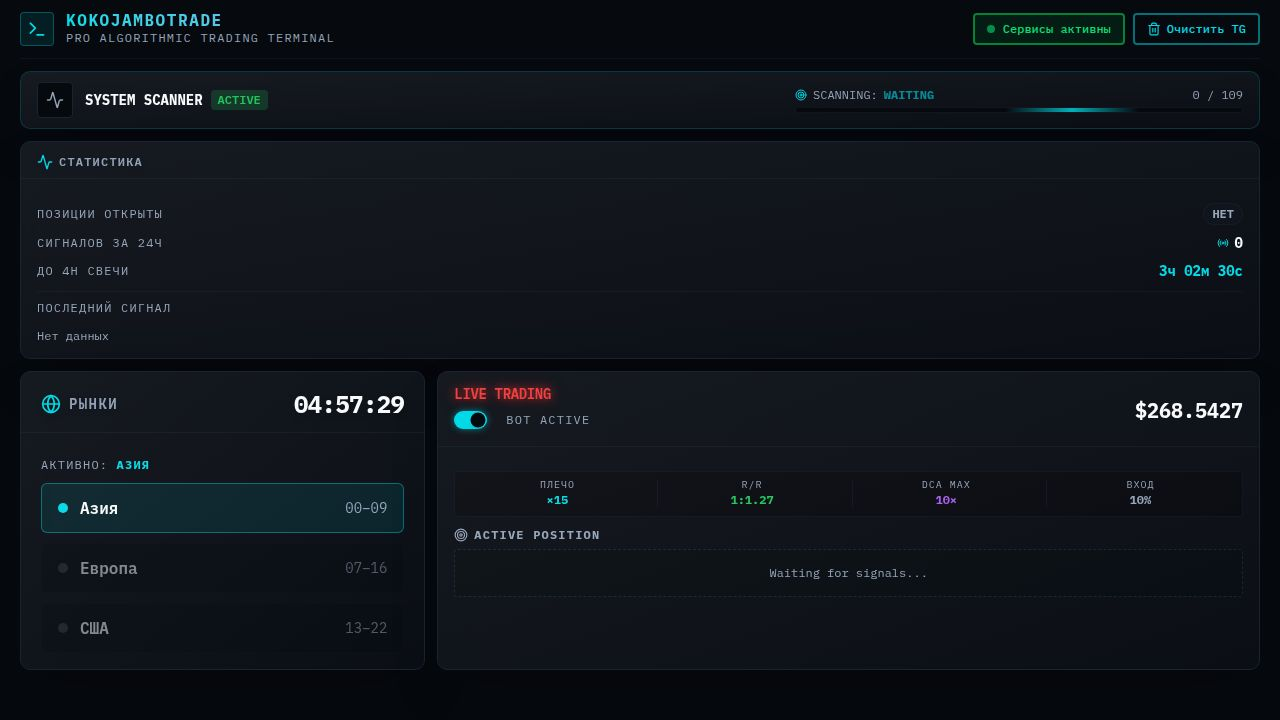
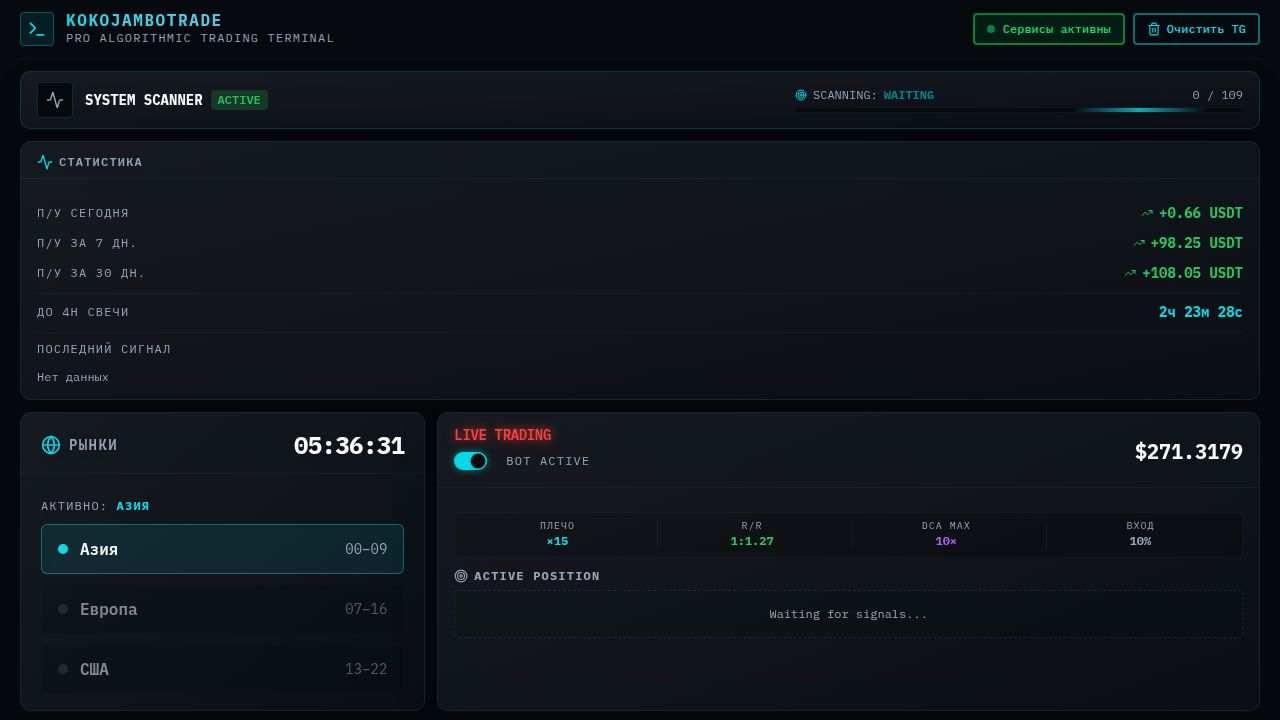
Add profit and loss analysis to the dashboard statistics
Implement a new API endpoint to fetch P/L data from BingX and update the dashboard statistics panel to display daily, weekly, and monthly P/L, while removing open position and signal count information.

Replit-Commit-Author: Agent
Replit-Commit-Session-Id: 5435439c-9c3d-44bc-b6f1-0574cbe3ae95
Replit-Commit-Checkpoint-Type: full_checkpoint
Replit-Commit-Event-Id: de305b79-208a-4731-9b19-1c8bcec75643
Replit-Commit-Screenshot-Url: https://storage.googleapis.com/screenshot-production-us-central1/e379409e-9a2b-4813-93f6-23a20e8a01ea/5435439c-9c3d-44bc-b6f1-0574cbe3ae95/LtQ1l3e
Replit-Helium-Checkpoint-Created: true

diff --git a/artifacts/dashboard/src/components/StatisticsPanel.tsx b/artifacts/dashboard/src/components/StatisticsPanel.tsx
@@ -1,8 +1,14 @@
 import { useQuery } from "@tanstack/react-query";
 import { useState, useEffect } from "react";
-import { Activity, Radio } from "lucide-react";
+import { Activity, TrendingUp, TrendingDown } from "lucide-react";
 import { Card, CardContent, CardHeader, CardTitle } from "@/components/ui/card";
 import { cn } from "@/lib/utils";
+
+interface PnlAnalysis {
+  today: number | null;
+  week: number | null;
+  month: number | null;
+}
 
 interface SignalStats {
   todayCount: number;
@@ -13,6 +19,17 @@ interface SignalStats {
     price: number;
     createdAt: string;
   } | null;
+}
+
+function usePnlAnalysis() {
+  return useQuery({
+    queryKey: ["/api/live-trading/pnl-analysis"],
+    queryFn: async () => {
+      const res = await fetch("/api/live-trading/pnl-analysis");
+      return res.json() as Promise<PnlAnalysis>;
+    },
+    refetchInterval: 60000,
+  });
 }
 
 function useSignalStats() {
@@ -44,7 +61,7 @@ function useNextCandleCountdown(periodHours = 4) {
           ? `${h}ч ${String(m).padStart(2, "0")}м ${String(s).padStart(2, "0")}с`
           : `${String(m).padStart(2, "0")}м ${String(s).padStart(2, "0")}с`
       );
-      setUrgent(diff < 5 * 60_000); // последние 5 минут — жёлтый
+      setUrgent(diff < 5 * 60_000);
     }
     tick();
     const id = setInterval(tick, 1000);
@@ -62,16 +79,39 @@ function timeAgo(dateStr: string): string {
   return `${Math.floor(diff / 86400)}д`;
 }
 
-interface StatisticsPanelProps {
-  openPosition: { direction?: string } | null;
+function PnlRow({ label, value }: { label: string; value: number | null }) {
+  const isLoading = value === null;
+  const isPos = (value ?? 0) >= 0;
+  const formatted = isLoading
+    ? "—"
+    : `${isPos ? "+" : ""}${value!.toFixed(2)} USDT`;
+
+  return (
+    <div className="flex items-center justify-between">
+      <span className="text-xs text-muted-foreground uppercase tracking-widest">{label}</span>
+      <div className="flex items-center gap-1.5">
+        {!isLoading && (
+          isPos
+            ? <TrendingUp className="w-3 h-3 text-success shrink-0" />
+            : <TrendingDown className="w-3 h-3 text-danger shrink-0" />
+        )}
+        <span className={cn(
+          "font-mono text-sm font-bold tabular-nums",
+          isLoading ? "text-muted-foreground" : isPos ? "text-success" : "text-danger"
+        )}>
+          {formatted}
+        </span>
+      </div>
+    </div>
+  );
 }
 
-export function StatisticsPanel({ openPosition }: StatisticsPanelProps) {
-  const { data } = useSignalStats();
+export function StatisticsPanel() {
+  const { data: pnl } = usePnlAnalysis();
+  const { data: signals } = useSignalStats();
   const { remaining, urgent } = useNextCandleCountdown(4);
 
-  const hasPos = !!openPosition;
-  const lastSig = data?.lastSignal;
+  const lastSig = signals?.lastSignal;
   const tokenName = lastSig?.symbol?.replace("-USDT", "").replace("/USDT:USDT", "") ?? "";
 
   return (
@@ -84,27 +124,11 @@ export function StatisticsPanel({ openPosition }: StatisticsPanelProps) {
       </CardHeader>
       <CardContent className="px-4 pb-3 flex flex-col gap-2.5">
 
-        <div className="flex items-center justify-between">
-          <span className="text-xs text-muted-foreground uppercase tracking-widest">Позиции открыты</span>
-          <span className={cn(
-            "px-2 py-0.5 rounded-full border font-mono text-xs font-bold uppercase",
-            hasPos
-              ? "bg-success/20 text-success border-success/40"
-              : "bg-muted/20 text-muted-foreground border-border/40"
-          )}>
-            {hasPos ? "ДА" : "НЕТ"}
-          </span>
-        </div>
+        <PnlRow label="П/У сегодня"  value={pnl?.today  ?? null} />
+        <PnlRow label="П/У за 7 дн." value={pnl?.week   ?? null} />
+        <PnlRow label="П/У за 30 дн." value={pnl?.month  ?? null} />
 
-        <div className="flex items-center justify-between">
-          <span className="text-xs text-muted-foreground uppercase tracking-widest">Сигналов за 24ч</span>
-          <div className="flex items-center gap-1.5">
-            <Radio className="w-3 h-3 text-primary" />
-            <span className="font-mono text-sm font-bold leading-none">{data?.todayCount ?? "—"}</span>
-          </div>
-        </div>
-
-        <div className="flex items-center justify-between">
+        <div className="border-t border-border/40 pt-2 flex items-center justify-between">
           <span className="text-xs text-muted-foreground uppercase tracking-widest">
             До 4H свечи
           </span>

diff --git a/artifacts/api-server/src/routes/trading.ts b/artifacts/api-server/src/routes/trading.ts
@@ -258,6 +258,43 @@ router.post("/scanner/sleep", async (req, res) => {
   }
 });
 
+router.get("/live-trading/pnl-analysis", async (req, res) => {
+  const apiKey = process.env.BINGX_API_KEY;
+  const secretKey = process.env.BINGX_SECRET_KEY;
+  if (!apiKey || !secretKey) return res.json({ today: null, week: null, month: null });
+
+  try {
+    const now = Date.now();
+    const todayStartMs = new Date(new Date().toISOString().slice(0, 10) + "T00:00:00.000Z").getTime();
+    const weekStartMs  = now - 7  * 24 * 60 * 60 * 1000;
+    const monthStartMs = now - 30 * 24 * 60 * 60 * 1000;
+
+    const raw = await bingxGet(
+      "/openApi/swap/v2/user/income",
+      { startTime: monthStartMs, limit: 1000 },
+      apiKey, secretKey
+    ) as { data?: Array<{ income: string; time: number; incomeType: string }> };
+
+    const items = raw?.data ?? [];
+    let today = 0, week = 0, month = 0;
+    const INCLUDE_TYPES = new Set(["REALIZED_PNL", "FUNDING_FEE", "COMMISSION"]);
+
+    for (const item of items) {
+      if (!INCLUDE_TYPES.has(item.incomeType)) continue;
+      const ts  = Number(item.time);
+      const val = parseFloat(item.income) || 0;
+      month += val;
+      if (ts >= weekStartMs)  week  += val;
+      if (ts >= todayStartMs) today += val;
+    }
+
+    res.json({ today, week, month });
+  } catch (err) {
+    req.log.warn(err, "pnl-analysis failed");
+    res.json({ today: null, week: null, month: null });
+  }
+});
+
 router.get("/scanner/sleep", async (req, res) => {
   try {
     const rows = await db.select().from(scannerStatusTable).where(eq(scannerStatusTable.id, 1));

diff --git a/artifacts/dashboard/src/pages/Dashboard.tsx b/artifacts/dashboard/src/pages/Dashboard.tsx
@@ -120,7 +120,7 @@ export default function Dashboard() {
 
         {/* STATISTICS — full width */}
         <motion.div custom={1} variants={fade} initial="hidden" animate="visible" className="mb-3">
-          <StatisticsPanel openPosition={(live.data?.open_position as { direction?: string } | null) ?? null} />
+          <StatisticsPanel />
         </motion.div>
 
         {/* SECOND ROW: Markets (left) + Live Trading (right) — same level */}
